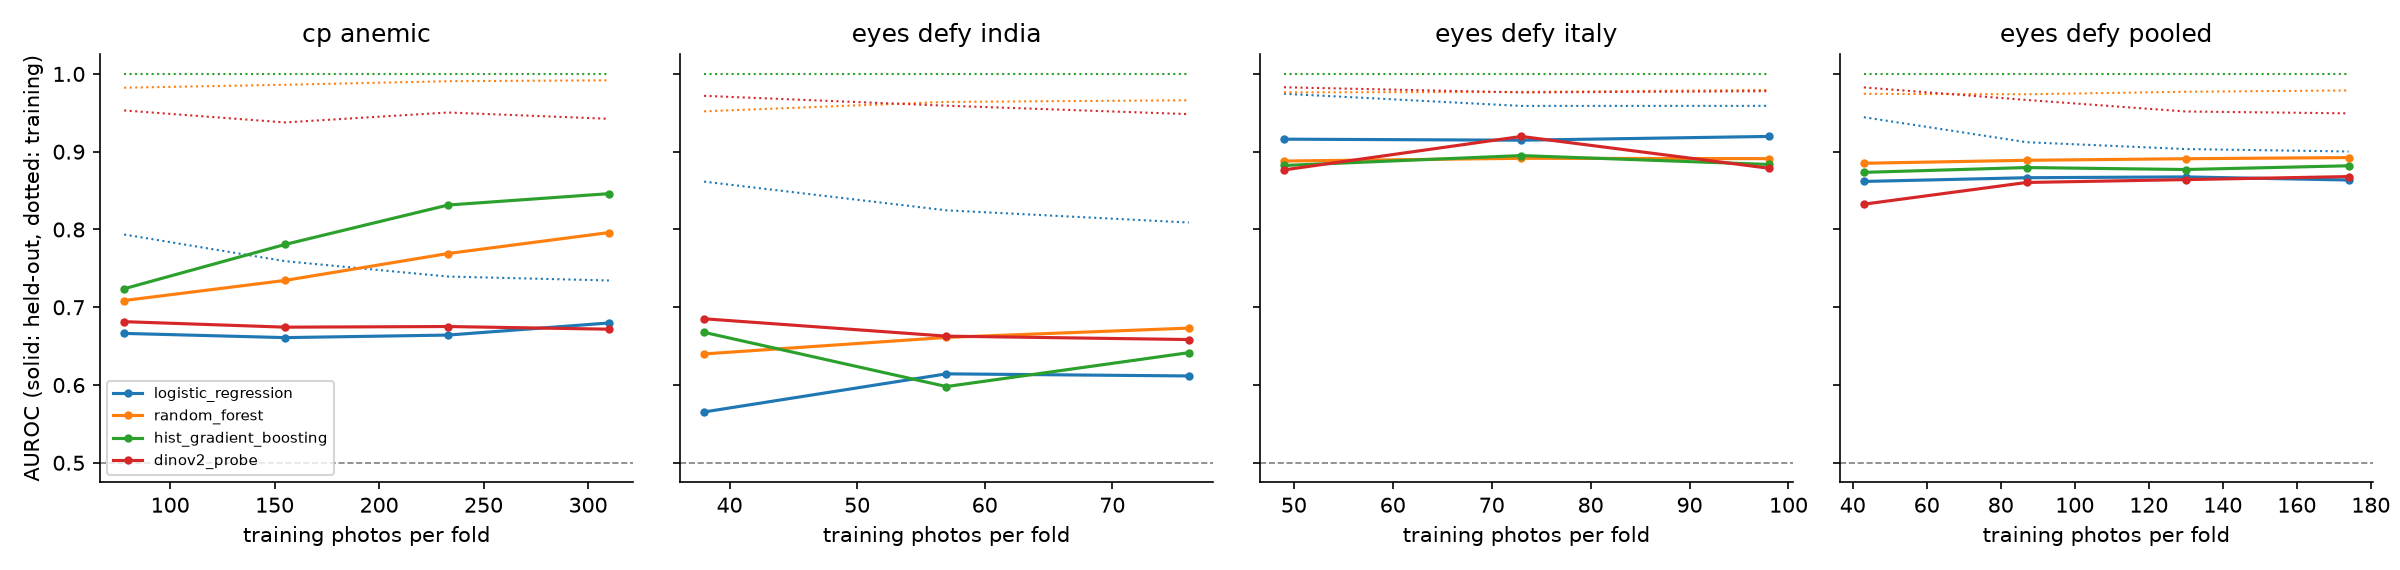
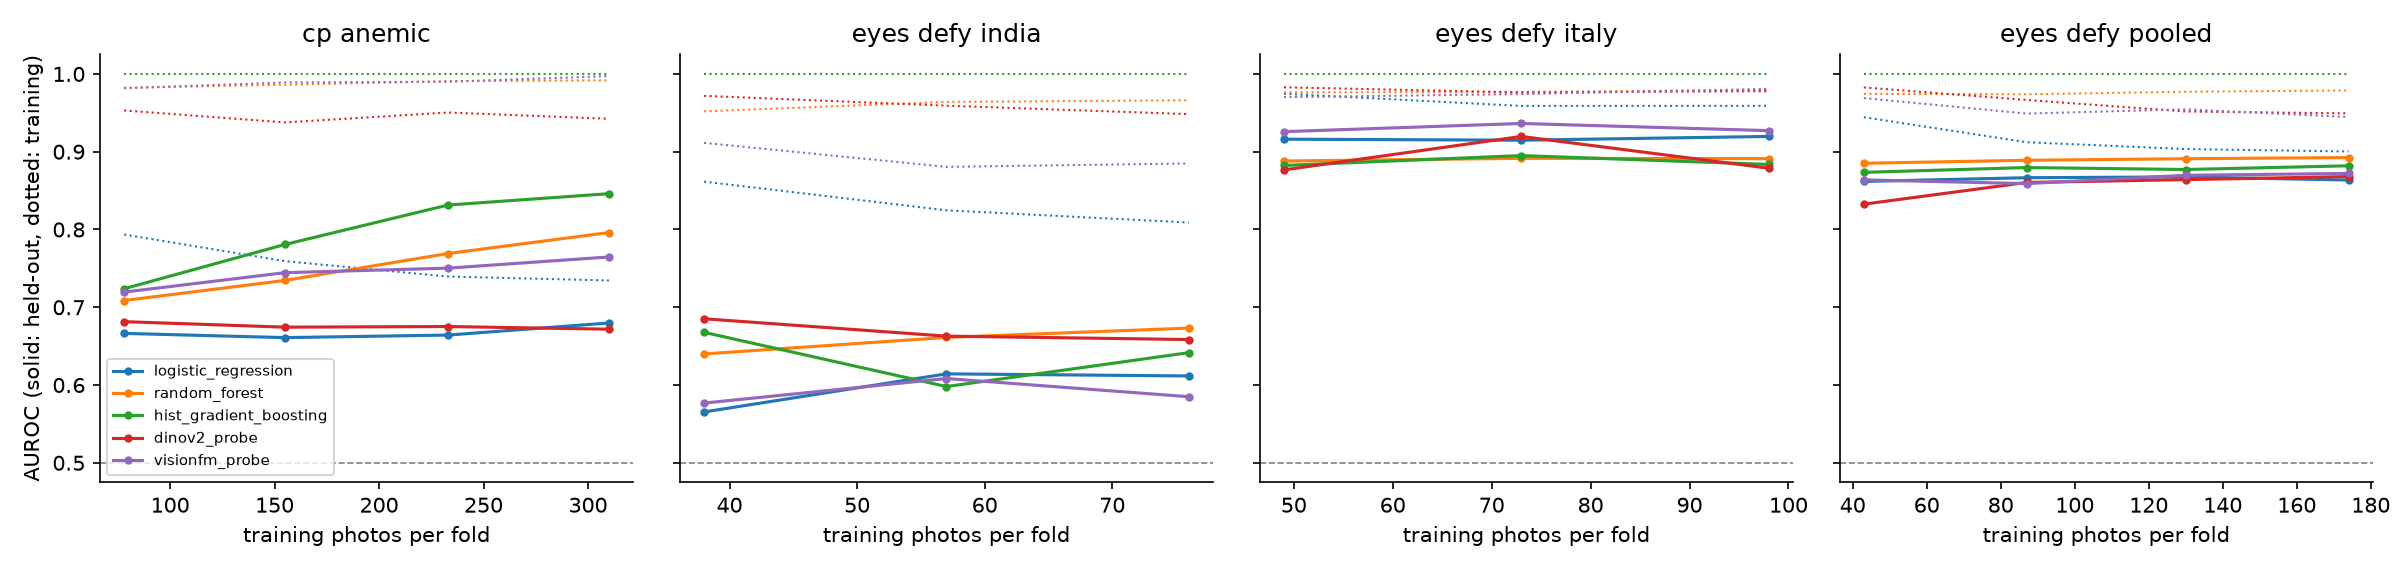
Stage 9 with the VisionFM rung; fix the VisionFM cache so its ids load without pickle

diff --git a/src/eyelid/visionfm.py b/src/eyelid/visionfm.py
@@ -32,7 +32,7 @@ def load_encoder(cfg):
 def embeddings(df, cfg, name, crop):
     """(n, 2 x width) CLS + mean patch token for each row of df, cached by population name and row ids."""
     path = CACHE / f"visionfm_external_{name}.npz"
-    ids = df.id.astype(str).to_numpy()
+    ids = df.id.to_numpy().astype(str)  # fixed-width strings: an object array can't be read back without pickle
     if path.exists():
         cached = np.load(path, allow_pickle=False)
         if list(cached["ids"]) == list(ids):

diff --git a/reports/stage9_ceiling.md b/reports/stage9_ceiling.md
@@ -1,6 +1,6 @@
 # Stage 9: how far can each population be fit on its own?
 
-Generated by `python -m src.eyelid.ceiling`; settings in `configs/ceiling.yaml`. Mentor advice M1-M3 (`docs/eyelid_followup.md`). Anemic: CP-AnemiC Hb < 11.0 g/dL (children); Eyes-Defy WHO adult cutoffs by sex (women < 12.0, men < 13.0). Input is the hand-segmented conjunctiva in every case. Held-out = repeated stratified 5-fold CV by photo (5 repeats, scores averaged), bootstrap 95% CIs (2000 resamples). **train** = AUROC of each fold's model on its own training photos, mean (min-max) over folds: a diagnostic of how well the model can fit, so no bootstrap. **gap** = train minus held-out; a large gap means the model memorizes rather than generalizes. The fine-tuned ViT uses one seed and 5 folds.
+Generated by `python -m src.eyelid.ceiling`; settings in `configs/ceiling.yaml`. Mentor advice M1-M3 (`docs/eyelid_followup.md`). Anemic: CP-AnemiC Hb < 11.0 g/dL (children); Eyes-Defy WHO adult cutoffs by sex (women < 12.0, men < 13.0). Input is the hand-segmented conjunctiva in every case. Held-out = repeated stratified 5-fold CV by photo (5 repeats, scores averaged), bootstrap 95% CIs (2000 resamples). **train** = AUROC of each fold's model on its own training photos, mean (min-max) over folds: a diagnostic of how well the model can fit, so no bootstrap. **gap** = train minus held-out; a large gap means the model memorizes rather than generalizes. The fine-tuned ViT uses one seed and 5 folds. **visionfm_probe** = the frozen VisionFM external-eye encoder (pretrained on eye photos, mentor advice M10) with the same probe as DINOv2.
 
 ## Model ladder
 
@@ -13,6 +13,7 @@ Generated by `python -m src.eyelid.ceiling`; settings in `configs/ceiling.yaml`.
 | cp_anemic | 388 | 42.5% | random_forest | 0.992 (0.99-0.99) | +0.196 | 0.796 [0.752, 0.839] | 0.736 [0.666, 0.799] | 0.370 [0.256, 0.491] |
 | cp_anemic | 388 | 42.5% | hist_gradient_boosting | 1.000 (1.00-1.00) | +0.154 | 0.846 [0.807, 0.882] | 0.780 [0.710, 0.845] | 0.582 [0.322, 0.753] |
 | cp_anemic | 388 | 42.5% | dinov2_probe | 0.942 (0.82-1.00) | +0.271 | 0.672 [0.616, 0.723] | 0.583 [0.507, 0.665] | 0.273 [0.156, 0.389] |
+| cp_anemic | 388 | 42.5% | visionfm_probe | 0.997 (0.96-1.00) | +0.233 | 0.765 [0.716, 0.815] | 0.693 [0.613, 0.770] | 0.352 [0.257, 0.539] |
 | cp_anemic | 388 | 42.5% | vit_b16_finetuned (jitter, 1 seed) | 1.000 (1.00-1.00) | +0.284 | 0.715 [0.661, 0.765] | 0.637 [0.559, 0.707] | 0.261 [0.169, 0.344] |
 | eyes_defy_india | 95 | 71.6% | rule_low_redness (no training) | - | - | 0.671 [0.552, 0.787] | 0.846 [0.759, 0.919] | 0.250 [0.147, 0.551] |
 | eyes_defy_india | 95 | 71.6% | negative_control_rf_no_color | 0.906 (0.87-0.93) | +0.358 | 0.548 [0.410, 0.677] | 0.757 [0.649, 0.864] | 0.118 [0.045, 0.231] |
@@ -21,6 +22,7 @@ Generated by `python -m src.eyelid.ceiling`; settings in `configs/ceiling.yaml`.
 | eyes_defy_india | 95 | 71.6% | random_forest | 0.966 (0.95-0.98) | +0.293 | 0.673 [0.542, 0.791] | 0.840 [0.751, 0.917] | 0.265 [0.132, 0.479] |
 | eyes_defy_india | 95 | 71.6% | hist_gradient_boosting | 1.000 (1.00-1.00) | +0.358 | 0.642 [0.515, 0.760] | 0.809 [0.705, 0.902] | 0.191 [0.039, 0.483] |
 | eyes_defy_india | 95 | 71.6% | dinov2_probe | 0.948 (0.89-1.00) | +0.290 | 0.658 [0.543, 0.778] | 0.838 [0.747, 0.916] | 0.265 [0.107, 0.533] |
+| eyes_defy_india | 95 | 71.6% | visionfm_probe | 0.885 (0.75-1.00) | +0.300 | 0.585 [0.452, 0.722] | 0.801 [0.705, 0.888] | 0.235 [0.145, 0.354] |
 | eyes_defy_india | 95 | 71.6% | vit_b16_finetuned (jitter, 1 seed) | 1.000 (1.00-1.00) | +0.346 | 0.654 [0.522, 0.783] | 0.784 [0.673, 0.906] | 0.059 [0.000, 0.540] |
 | eyes_defy_italy | 122 | 18.9% | rule_low_redness (no training) | - | - | 0.924 [0.856, 0.977] | 0.731 [0.553, 0.924] | 0.783 [0.526, 0.960] |
 | eyes_defy_italy | 122 | 18.9% | negative_control_rf_no_color | 0.904 (0.88-0.94) | +0.153 | 0.751 [0.646, 0.837] | 0.346 [0.228, 0.529] | 0.217 [0.000, 0.458] |
@@ -29,6 +31,7 @@ Generated by `python -m src.eyelid.ceiling`; settings in `configs/ceiling.yaml`.
 | eyes_defy_italy | 122 | 18.9% | random_forest | 0.979 (0.97-0.99) | +0.088 | 0.891 [0.787, 0.968] | 0.703 [0.515, 0.896] | 0.739 [0.522, 0.950] |
 | eyes_defy_italy | 122 | 18.9% | hist_gradient_boosting | 1.000 (1.00-1.00) | +0.116 | 0.884 [0.784, 0.958] | 0.629 [0.453, 0.855] | 0.696 [0.480, 0.944] |
 | eyes_defy_italy | 122 | 18.9% | dinov2_probe | 0.978 (0.94-1.00) | +0.099 | 0.879 [0.765, 0.963] | 0.723 [0.532, 0.897] | 0.870 [0.474, 1.000] |
+| eyes_defy_italy | 122 | 18.9% | visionfm_probe | 0.981 (0.94-1.00) | +0.054 | 0.927 [0.838, 0.986] | 0.840 [0.695, 0.952] | 0.870 [0.696, 1.000] |
 | eyes_defy_italy | 122 | 18.9% | vit_b16_finetuned (jitter, 1 seed) | 1.000 (1.00-1.00) | +0.081 | 0.919 [0.830, 0.980] | 0.702 [0.524, 0.916] | 0.913 [0.731, 1.000] |
 | eyes_defy_pooled | 217 | 41.9% | rule_low_redness (no training) | - | - | 0.835 [0.779, 0.884] | 0.767 [0.676, 0.859] | 0.495 [0.344, 0.707] |
 | eyes_defy_pooled | 217 | 41.9% | negative_control_rf_no_color | 0.901 (0.87-0.93) | +0.159 | 0.742 [0.675, 0.804] | 0.656 [0.555, 0.767] | 0.363 [0.212, 0.490] |
@@ -37,6 +40,7 @@ Generated by `python -m src.eyelid.ceiling`; settings in `configs/ceiling.yaml`.
 | eyes_defy_pooled | 217 | 41.9% | random_forest | 0.979 (0.97-0.98) | +0.086 | 0.892 [0.849, 0.935] | 0.833 [0.755, 0.905] | 0.549 [0.375, 0.831] |
 | eyes_defy_pooled | 217 | 41.9% | hist_gradient_boosting | 1.000 (1.00-1.00) | +0.118 | 0.882 [0.835, 0.925] | 0.784 [0.689, 0.878] | 0.484 [0.308, 0.803] |
 | eyes_defy_pooled | 217 | 41.9% | dinov2_probe | 0.949 (0.90-1.00) | +0.081 | 0.868 [0.818, 0.916] | 0.788 [0.700, 0.878] | 0.604 [0.373, 0.802] |
+| eyes_defy_pooled | 217 | 41.9% | visionfm_probe | 0.945 (0.91-1.00) | +0.073 | 0.872 [0.823, 0.916] | 0.791 [0.699, 0.879] | 0.516 [0.387, 0.744] |
 | eyes_defy_pooled | 217 | 41.9% | vit_b16_finetuned (jitter, 1 seed) | 1.000 (1.00-1.00) | +0.108 | 0.892 [0.848, 0.930] | 0.843 [0.770, 0.907] | 0.604 [0.417, 0.785] |
 | eyes_defy_pooled | 217 | 41.9% | vit_b16_finetuned (no jitter, 1 seed) | 1.000 (1.00-1.00) | +0.102 | 0.898 [0.853, 0.937] | 0.831 [0.743, 0.910] | 0.703 [0.522, 0.824] |
 
@@ -62,6 +66,10 @@ Held-out AUROC when each training fold is cut to a stratified share. Still risin
 | cp_anemic | dinov2_probe | 0.5 | 155 | 0.938 | 0.674 [0.619, 0.731] |
 | cp_anemic | dinov2_probe | 0.75 | 233 | 0.950 | 0.675 [0.618, 0.728] |
 | cp_anemic | dinov2_probe | 1.0 | 310 | 0.942 | 0.672 [0.616, 0.723] |
+| cp_anemic | visionfm_probe | 0.25 | 78 | 0.982 | 0.719 [0.664, 0.770] |
+| cp_anemic | visionfm_probe | 0.5 | 155 | 0.989 | 0.744 [0.692, 0.791] |
+| cp_anemic | visionfm_probe | 0.75 | 233 | 0.990 | 0.750 [0.699, 0.799] |
+| cp_anemic | visionfm_probe | 1.0 | 310 | 0.997 | 0.765 [0.716, 0.815] |
 | eyes_defy_india | logistic_regression | 0.5 | 38 | 0.862 | 0.565 [0.443, 0.685] |
 | eyes_defy_india | logistic_regression | 0.75 | 57 | 0.825 | 0.614 [0.490, 0.727] |
 | eyes_defy_india | logistic_regression | 1.0 | 76 | 0.809 | 0.612 [0.493, 0.726] |
@@ -74,6 +82,9 @@ Held-out AUROC when each training fold is cut to a stratified share. Still risin
 | eyes_defy_india | dinov2_probe | 0.5 | 38 | 0.972 | 0.685 [0.572, 0.791] |
 | eyes_defy_india | dinov2_probe | 0.75 | 57 | 0.959 | 0.663 [0.542, 0.778] |
 | eyes_defy_india | dinov2_probe | 1.0 | 76 | 0.948 | 0.658 [0.543, 0.778] |
+| eyes_defy_india | visionfm_probe | 0.5 | 38 | 0.911 | 0.577 [0.451, 0.698] |
+| eyes_defy_india | visionfm_probe | 0.75 | 57 | 0.881 | 0.608 [0.478, 0.731] |
+| eyes_defy_india | visionfm_probe | 1.0 | 76 | 0.885 | 0.585 [0.452, 0.722] |
 | eyes_defy_italy | logistic_regression | 0.5 | 49 | 0.975 | 0.916 [0.818, 0.985] |
 | eyes_defy_italy | logistic_regression | 0.75 | 73 | 0.959 | 0.915 [0.816, 0.981] |
 | eyes_defy_italy | logistic_regression | 1.0 | 98 | 0.959 | 0.920 [0.822, 0.983] |
@@ -86,6 +97,9 @@ Held-out AUROC when each training fold is cut to a stratified share. Still risin
 | eyes_defy_italy | dinov2_probe | 0.5 | 49 | 0.983 | 0.877 [0.760, 0.965] |
 | eyes_defy_italy | dinov2_probe | 0.75 | 73 | 0.976 | 0.920 [0.852, 0.970] |
 | eyes_defy_italy | dinov2_probe | 1.0 | 98 | 0.978 | 0.879 [0.765, 0.963] |
+| eyes_defy_italy | visionfm_probe | 0.5 | 49 | 0.970 | 0.926 [0.843, 0.987] |
+| eyes_defy_italy | visionfm_probe | 0.75 | 73 | 0.974 | 0.936 [0.867, 0.990] |
+| eyes_defy_italy | visionfm_probe | 1.0 | 98 | 0.981 | 0.927 [0.838, 0.986] |
 | eyes_defy_pooled | logistic_regression | 0.25 | 43 | 0.944 | 0.862 [0.808, 0.910] |
 | eyes_defy_pooled | logistic_regression | 0.5 | 87 | 0.912 | 0.867 [0.817, 0.913] |
 | eyes_defy_pooled | logistic_regression | 0.75 | 130 | 0.903 | 0.868 [0.817, 0.913] |
@@ -102,6 +116,10 @@ Held-out AUROC when each training fold is cut to a stratified share. Still risin
 | eyes_defy_pooled | dinov2_probe | 0.5 | 87 | 0.967 | 0.860 [0.810, 0.910] |
 | eyes_defy_pooled | dinov2_probe | 0.75 | 130 | 0.952 | 0.864 [0.810, 0.914] |
 | eyes_defy_pooled | dinov2_probe | 1.0 | 174 | 0.949 | 0.868 [0.818, 0.916] |
+| eyes_defy_pooled | visionfm_probe | 0.25 | 43 | 0.969 | 0.864 [0.810, 0.913] |
+| eyes_defy_pooled | visionfm_probe | 0.5 | 87 | 0.949 | 0.859 [0.809, 0.906] |
+| eyes_defy_pooled | visionfm_probe | 0.75 | 130 | 0.955 | 0.870 [0.821, 0.915] |
+| eyes_defy_pooled | visionfm_probe | 1.0 | 174 | 0.945 | 0.872 [0.823, 0.916] |
 
 ![Learning curves](figures/stage9_learning_curves.png)
 
